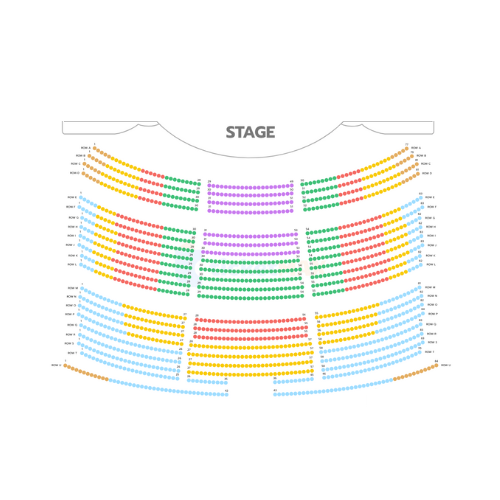
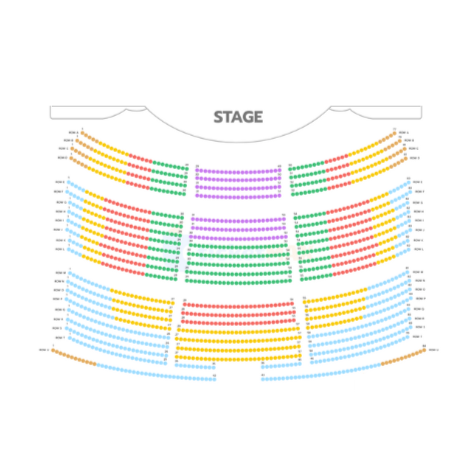
ada

Changed region(s): [[0.0884, 0.2063, 0.9137, 0.8253], [0.3537, 0.2063, 0.56, 0.3242], [0.5895, 0.2653, 0.6484, 0.2947]]

diff --git a/js/sell.js b/js/sell.js
@@ -17,24 +17,62 @@ premadeImage.addEventListener("mouseleave", () => {
   premadeMessage.textContent = "";
 });
 
-const dateAvailability = Array.from({ length: 31 }, (_, i) => ({
-  date: i + 1,
-  availability: Math.random() < 0.7,
-}));
+function dateAvailability(length) {
+  return Array.from({ length }, (_, i) => ({
+    date: i + 1,
+    availability: Math.random() < 0.7,
+  }));
+}
 
 const months = [
-  "January",
-  "February",
-  "March",
-  "April",
-  "May",
-  "June",
-  "July",
-  "August",
-  "September",
-  "October",
-  "November",
-  "December",
+  {
+    month: "January",
+    length: 31,
+  },
+  {
+    month: "February",
+    length: 28,
+  },
+  {
+    month: "March",
+    length: 31,
+  },
+  {
+    month: "April",
+    length: 30,
+  },
+  {
+    month: "May",
+    length: 31,
+  },
+  {
+    month: "June",
+    length: 30,
+  },
+  {
+    month: "July",
+    length: 31,
+  },
+  {
+    month: "August",
+    length: 31,
+  },
+  {
+    month: "September",
+    length: 30,
+  },
+  {
+    month: "October",
+    length: 31,
+  },
+  {
+    month: "November",
+    length: 30,
+  },
+  {
+    month: "December",
+    length: 31,
+  },
 ];
 
 const modal = document.getElementById("popup-modal");
@@ -72,8 +110,8 @@ window.addEventListener("click", (e) => {
 });
 
 function loadDates() {
-  monthName.textContent = months[currentMonth];
-  const dates = dateAvailability;
+  monthName.textContent = months[currentMonth].month;
+  const dates = dateAvailability(months[currentMonth].length);
   datesContainer.innerHTML = "";
   proceedBtn.classList.add("disabled");
   dates.forEach((date) => {
@@ -122,3 +160,4 @@ proceedBtn.addEventListener("click", () => {
     window.location.href = currentRedirect;
   }
 });
+

diff --git a/css/global.css b/css/global.css
@@ -490,7 +490,7 @@ nav .non-current:hover {
   height: 100%;
   object-fit: cover;
   border-radius: 50%;
-  background-color: var(--noncurrent-hover-color);
+  background-color: white;
 }
 
 .profile-wrapper span {
@@ -529,8 +529,8 @@ main {
 footer {
   display: flex;
   flex-direction: column;
-  gap: 70px;
-  padding: 50px 150px 30px 150px;
+  gap: 60px;
+  padding: 50px 150px 10px 150px;
 }
 
 footer section {
@@ -566,6 +566,12 @@ footer section {
   display: flex;
   flex-direction: column;
   gap: 10px;
+}
+
+.end-part {
+  display: flex;
+  justify-content: center;
+  align-items: end;
 }
 
 .architix {

diff --git a/css/edit-event.css b/css/edit-event.css
@@ -342,4 +342,5 @@ button:active {
   left: 50%;
   transform: translate(-50%, -50%);
   width: 700px;
+  border: none;
 }
